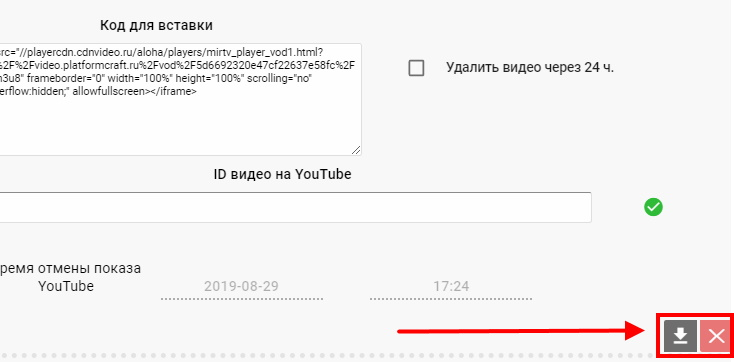
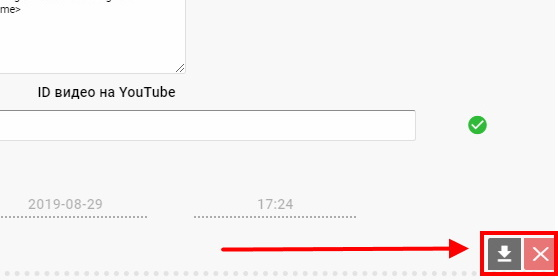
done docs for cdnplayer

diff --git a/updates/update_youtube.rst b/updates/update_youtube.rst
@@ -73,20 +73,29 @@
 
 .. |upld| image:: /images/admin/edit_form/uploadvideo.jpg
 
-Загрузка видео
-------------------
+Загрузка видео и использование CDNvideo плеера
+------------------------------------------------
 
-1
-~~~~~~~~~~~~~~~~~
+1. Необходимо загрузить видео по кнопке "Загрузить локальный файл".
+~~~~~~~~~~~~~~~~~~~~~~~~~~~~~~~~~~~~~~~~~~~~~~~~~~~~~~~~~~~~~~~~~~~~
 
 .. image:: /images/admin/edit_form/uploadvideo2.jpg
 
-2
-~~~~~~~~~~~~~~~~~
-.. image:: /images/admin/edit_form/uploadvideo3.jpg
+После загрузки видео в админке, на месте кнопки "Загрузить локальный файл" будут доступны другие кнопки, предназначенные для работы с загруженным в публикации видео:
 
-3
-~~~~~~~~~~~~~~~~~
+ * Скачать видео
+ * Удалить видео из публикации
+
+.. image:: /images/admin/edit_form/uploadvideo3.jpg
+   :width: 60 %
+
+После публикации с локально загруженным видео, генерируется плеер ``CDNvideo`` и загруженное видео добавится перед текстом публикации.
+
+2. Необходимо указать ``ID`` в поле "ID видео на YouTube".
+~~~~~~~~~~~~~~~~~~~~~~~~~~~~~~~~~~~~~~~~~~~~~~~~~~~~~~~~~~~~~~
+
 .. image:: /images/admin/edit_form/uploadvideo4.jpg
+
+После указания ``ID`` видео из YouTube в публикации будет сгенерирован плеер ``CDNvideo`` в котором будет видео из YouTube.
 
 .. image:: /images/youtube-cd.jpg

diff --git a/devnote/rst.rst b/devnote/rst.rst
@@ -7,6 +7,10 @@ Hidden notes
 
 Шаблоны
 ==========================
+
+.. image:: /images/front/news-list-example.png
+   :width: 100 %
+
 .. code-block:: rst
 
    Релиз 0.00 (ST-979_) от 00.00.2019
@@ -18,18 +22,13 @@ Hidden notes
    .. |img| image:: /images/youtube-sucss.jpg
    ..	_MIRSCR-0000: https://mir24tv.atlassian.net/browse/MIRSCR-0000
 
-
-
-
 Ссылки
 ==================
 
 `api <https://docs.mir24.tv/api/v2/?format=api>`_
 
 MIRSCR-0000_
-note_
 
-.. _note: /
 ..	_MIRSCR-0000: https://mir24tv.atlassian.net/browse/MIRSCR-0000
 
 
